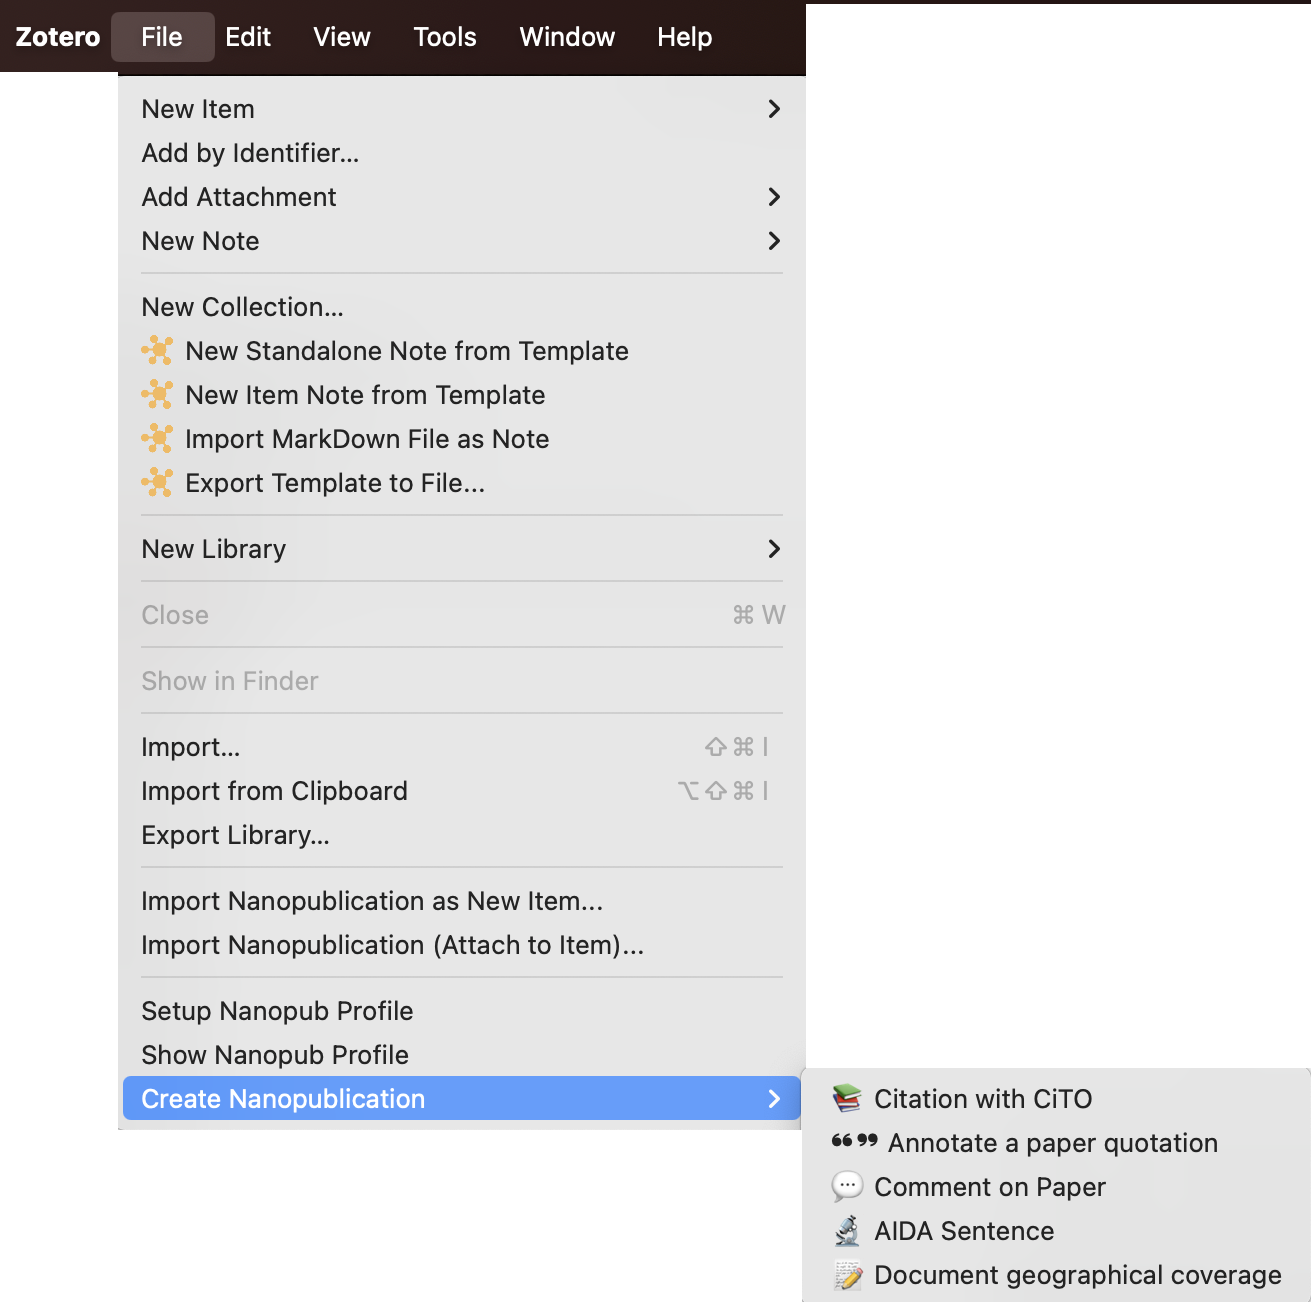
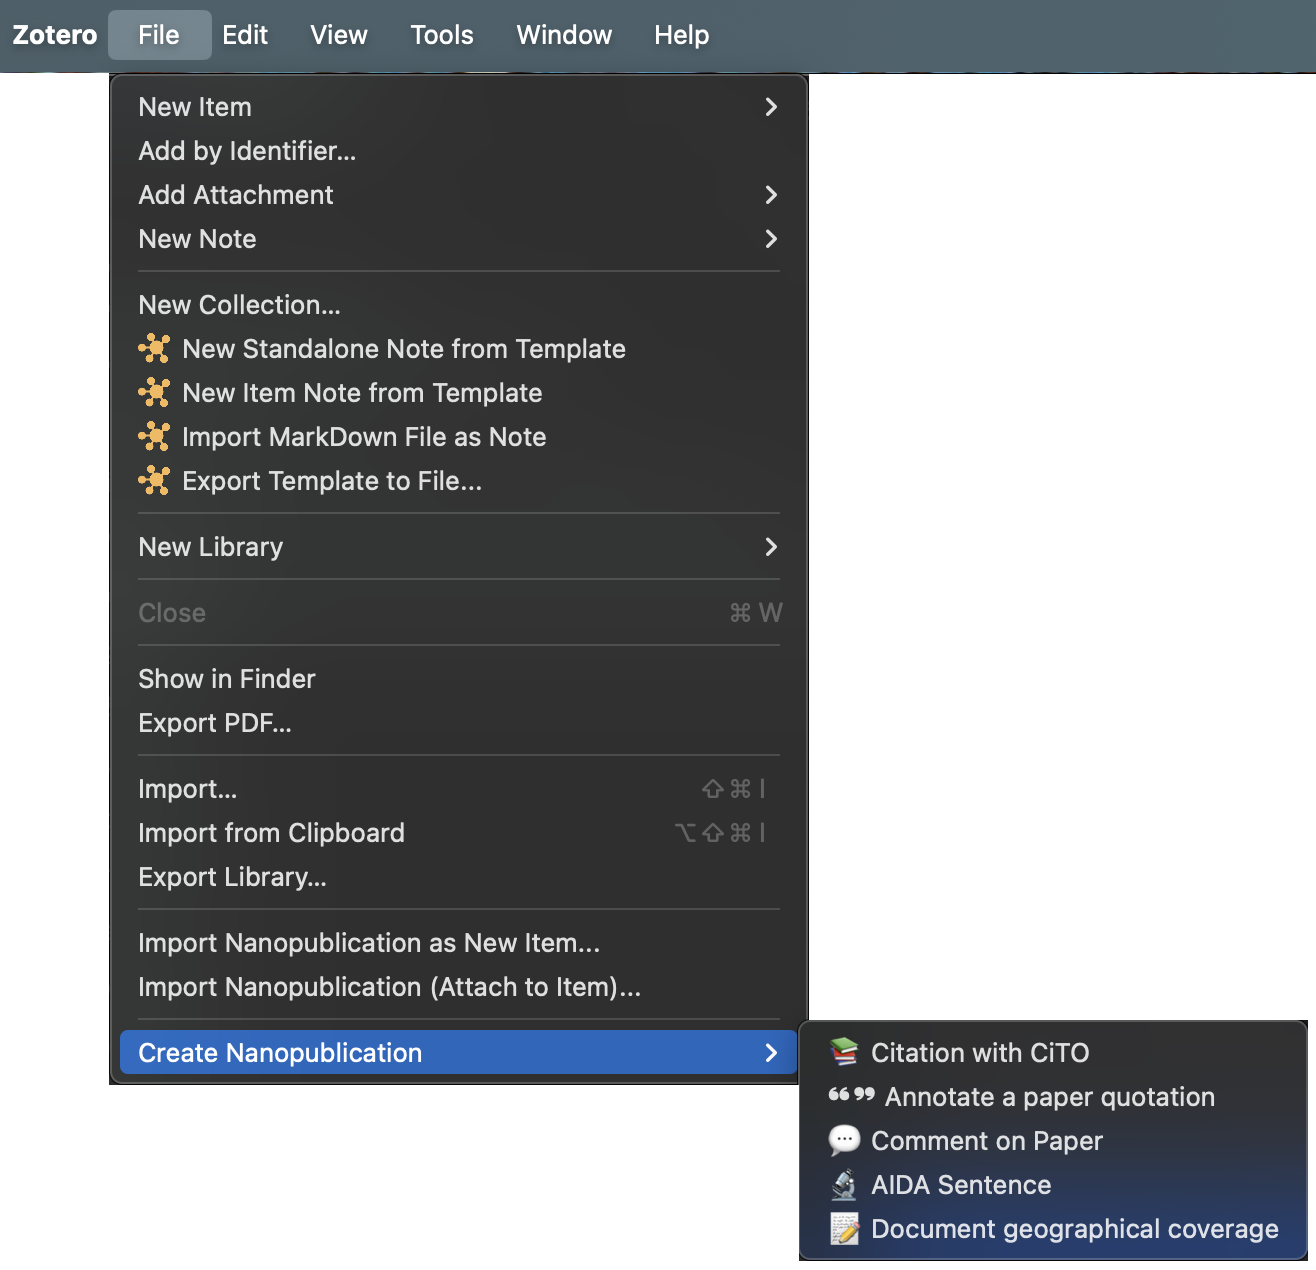
update documentation with links to videos

diff --git a/docs/index.md b/docs/index.md
@@ -40,24 +40,25 @@ The Zotero Nanopublication Plugin brings semantic web publishing **directly into
 
 ---
 
-## Current Features (v2.0.0)
+## Current Features (v0.1.3)
 
 - **In-Zotero Form Creation** - Entire workflow happens in Zotero tabs
 - **Template Browser** - Choose from popular templates with one click
-- **Multiple Templates** - CiTO, AIDA, geographical coverage, and more
+- **Multiple Templates** - CiTO, AIDA, quote & annotate, geographical coverage, and more
 - **Auto-fill** - Paper metadata automatically populated
 - **Automatic Signing** - Uses WASM cryptography with your ORCID
 - **Direct Publishing** - Publishes to nanopub network instantly
 - **Rich Notes** - Beautiful display of nanopubs with `@sciencelivehub/nanopub-view`
 - **Search Integration** - Discover nanopubs about papers in your library
 - **Import/Attach** - Add nanopubs as items or attach as notes
+- **PDF Text Selection** - Create nanopubs directly from highlighted text
 - **Dark Mode** - Seamless integration with Zotero's theme
 
 ---
 
-## Coming Soon (v2.1.0)
+## Coming Soon (v0.1.4)
 
-🚧 **PDF Text Selection** - Create nanopubs directly from highlighted text
+🚧 **PRISMA Systematic Review** - Create nanopubs for Systematic Reviews from Zotero
 
 Want updates? [Watch the repository](https://github.com/ScienceLiveHub/zotero-nanopub-plugin) ⭐
 

diff --git a/docs/getting-started/quick-start.md b/docs/getting-started/quick-start.md
@@ -15,14 +15,14 @@ Create your first nanopublication in 5 minutes - **entirely within Zotero!**
 
 Your nanopubs are signed with your ORCID for proper attribution.
 
-1. In Zotero, go to **File → Setup Nanopub Profile**
+1. In Zotero, go to **Zotero → Settings** or **File → Preferences**.
+2. Select the **Science Live** Panel
 2. Enter your full name (e.g., "Jane Smith")
-![Screenshot: Profile setup name dialog](../assets/images/setup-profile-name.png)
 3. Enter your ORCID (e.g., `0000-0002-1234-5678` or `https://orcid.org/0000-0002-1234-5678`)
 ![Screenshot: Profile setup orcid dialog](../assets/images/setup-profile-orcid.png)
 4. Click **OK**
+![Screenshot: Profile setup name dialog](../assets/images/setup-profile-name.png)
 5. To check your profile, go to  **File → Show  Nanopub Profile** 
-![Screenshot: Show Profile](../assets/images/profile-orcid.png)
 
 The plugin generates cryptographic keys and stores them securely in Zotero.
 

diff --git a/docs/getting-started/installation.md b/docs/getting-started/installation.md
@@ -14,11 +14,20 @@
 
 ![Nanopub Zotero plugin installation](../assets/images/plugin-installation.png)
 
+
+Check the [Science Live Zotero plugin install and setup Video](https://youtu.be/BLeYIeLI6co) to get a step by step guide to install and setup the Science Live Zotero Plugin.
+
 ## Verify Installation
 
 Right-click any item in your Zotero library and look for:
-- "Create Nanopublication on"
+
+- "Create Nanopublication"
+- "Attach Nanopublication"
 - "Search Related Nanopublications"
+
+![Nanopub Zotero Item Menu](../assets/images/ItemMenu.png)
+
+Similar menu can be found from the "File" tab:
 
 ![Nanopub Zotero File Menu](../assets/images/File-menu.png)
 
